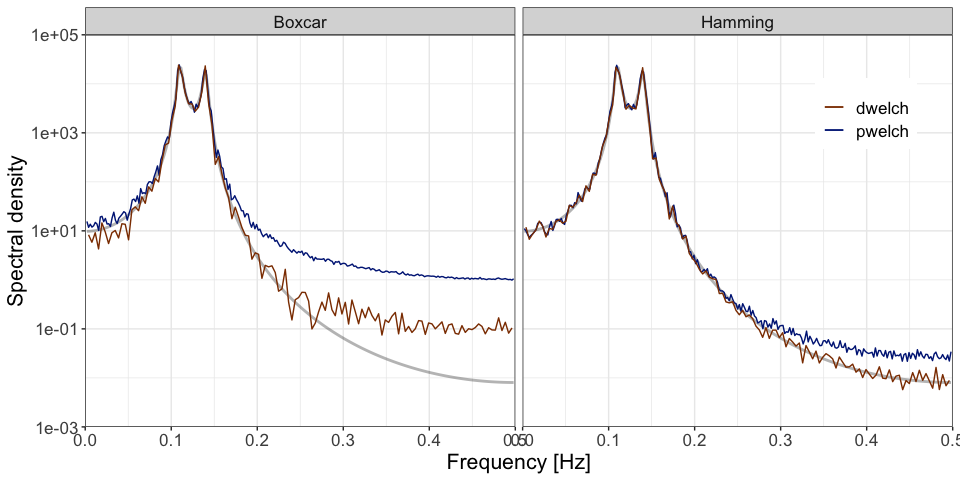
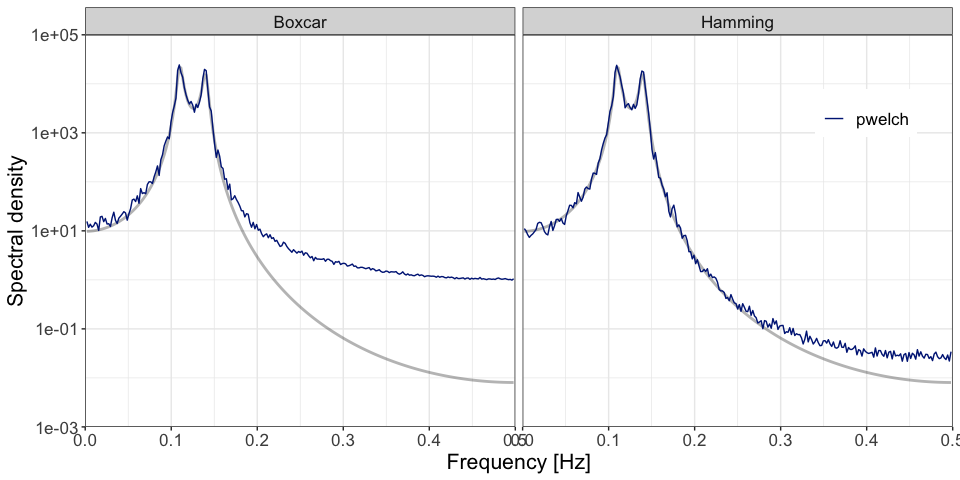
added nnls functionality to dwelch

diff --git a/README.md b/README.md
@@ -7,7 +7,9 @@
 <!-- badges: end -->
 
 <tt>dwelch</tt> provides code to calculate the debiased Welch estimator
-developed in LINK TO PAPER.
+developed in LINK TO PAPER. Code for routine data manipulation and
+plotting is hidden; if you are interested in this consult
+<tt>README.Rmd</tt>.
 
 ## Installation
 
@@ -47,106 +49,66 @@ Define our data taper, <tt>h</tt>, and calculate Welch’s estimate of the
 AR process. We will show results for the boxcar and Hamming tapers
 side-by-side. See package
 [gsignal](https://cran.r-project.org/web/packages/gsignal/index.html)
-for a fairly comprehensive list of other tapers.
+for a fairly comprehensive list of other tapers. Note, gsignal masks the
+function <tt>pwelch</tt> and so if gsignal is loaded into your R session
+you will need to explicitly call <tt>dwelch::pwelch</tt>.
 
 ``` r
 h_hm <- gsignal::hamming(l) # Hamming filter
 h_bc <- rep(1, l) #Boxcar filter
 
-pwelch_bc <- dwelch::pwelch(sampled_ar, m, l, s, delta, h_bc)
-pwelch_hm <- dwelch::pwelch(sampled_ar, m, l, s, delta, h_hm)
-
-# Plot both pwelch estimates together
-
-pwelch_both <- pwelch_bc %>%
-    left_join(pwelch_hm, by = "ff", suffix = c("_Boxcar", "_Hamming")) %>%
-    pivot_longer(
-        -ff,
-        names_to = "filter",
-        names_prefix = "pwelch_",
-        values_to = "pwelch"
-    )
-
-pwelch_both %>%
-    mutate(ar = ar_spectrum(pwelch_both$ff, phis, sd, delta)) %>%
-    ggplot() +
-    geom_line(aes(x = ff, y = ar), linewidth = 1, alpha = 0.3) +
-    geom_line(aes(x = ff, y = pwelch, colour = "pwelch")) +
-    scale_x_continuous(
-        "Frequency [Hz]",
-        limits = c(0, 0.5 / delta),
-        expand = c(0, 0)
-    ) +
-    scale_y_continuous(
-        "Spectral density",
-        limits = c(1e-3, 1e5),
-        expand = c(0, 0),
-        trans = "log10"
-    ) +
-    scale_color_manual(values = c("pwelch" = "#002385")) +
-    facet_wrap(vars(filter)) +
-    theme(
-        legend.position = c(0.9, 0.8),
-        legend.title = element_blank(),
-        text = element_text(size = 16)
-    )
+pwelch_bc <- pwelch(sampled_ar, m, l, s, delta, h_bc)
+pwelch_hm <- pwelch(sampled_ar, m, l, s, delta, h_hm)
 ```
 
-<img src="man/figures/README-unnamed-chunk-5-1.png" width="100%" />
+<img src="man/figures/README-unnamed-chunk-6-1.png" width="100%" />
 
-## Calculated Debiased Welch estimate
+## Calculate debiased Welch estimate
 
 For the debiased Welch estimator we must only make one additional
-specification: the number of debiased bases, <tt>k</tt>. Aside from
-this, the function <tt>dwelch</tt> excutes similarly to <tt>pwelch</tt>,
-above.
+specification: the number of debiased bases, <tt>k</tt>. Aside from the
+selection of <tt>k</tt>, the function <tt>dwelch</tt> excutes similarly
+to <tt>pwelch</tt>, above.
 
 ``` r
 k <- round(get_nfreq(l) / 2, 0)
 
 dwelch_bc <- dwelch(sampled_ar, m, l, s, k, delta, h_bc)
 dwelch_hm <- dwelch(sampled_ar, m, l, s, k, delta, h_hm)
-
-# Plot both dwelch estimates together
-
-dwelch_both <- dwelch_bc %>%
-    left_join(dwelch_hm, by = "ff", suffix = c("_Boxcar", "_Hamming")) %>%
-    pivot_longer(
-        -ff,
-        names_to = "filter",
-        names_prefix = "dwelch_",
-        values_to = "dwelch"
-    )
-
-pwelch_both %>%
-    mutate(ar = ar_spectrum(pwelch_both$ff, phis, sd, delta)) %>%
-    ggplot() +
-    geom_line(aes(x = ff, y = ar), linewidth = 1, alpha = 0.3) +
-    geom_line(aes(x = ff, y = pwelch, colour = "pwelch")) +
-    geom_line(
-        data = dwelch_both,
-        mapping = aes(x = ff, y = dwelch, colour = "dwelch")
-    ) +
-    scale_x_continuous(
-        "Frequency [Hz]",
-        limits = c(0, 0.5 / delta),
-        expand = c(0, 0)
-    ) +
-    scale_y_continuous(
-        "Spectral density",
-        limits = c(1e-3, 1e5),
-        expand = c(0, 0),
-        trans = "log10"
-    ) +
-    scale_color_manual(
-        values = c("pwelch" = "#002385", "dwelch" = "#8d3b00")
-    ) +
-    facet_wrap(vars(filter)) +
-    theme(
-        legend.position = c(0.9, 0.8),
-        legend.title = element_blank(),
-        text = element_text(size = 16)
-    )
 ```
 
-<img src="man/figures/README-unnamed-chunk-6-1.png" width="100%" />
+<img src="man/figures/README-unnamed-chunk-8-1.png" width="100%" />
+
+## Non-negative solutions
+
+The WLS solution does not constain the debiased estimator to
+non-negative solutions, which is required of a spectral estimator. Note,
+this happens when the signal at a frequency is masked by spectral
+leakage. <tt>dwelch</tt> has functionality to constrain solutions to be
+non-negative, this is done by setting <tt>model = “nnls”</tt>. See the
+example below where we have selected an example with a particularly bad
+solution space. Note, non-positive values are not plotted. Note that for
+the Hamming tapered data where the solution is already non-negative, the
+nnls solution is the same.
+
+``` r
+set.seed(23)
+
+sampled_ar <- stats::arima.sim(list(ar = phis), n, n.start = 1000, sd = sd)
+
+pwelch_bc <- dwelch::pwelch(sampled_ar, m, l, s, delta, h_bc)
+pwelch_hm <- dwelch::pwelch(sampled_ar, m, l, s, delta, h_hm)
+
+dwelch_bc <- dwelch(sampled_ar, m, l, s, k, delta, h_bc)
+dwelch_hm <- dwelch(sampled_ar, m, l, s, k, delta, h_hm)
+
+nnls_bc <- dwelch(sampled_ar, m, l, s, k, delta, h_bc, model = "nnls")
+nnls_hm <- dwelch(sampled_ar, m, l, s, k, delta, h_hm, model = "nnls")
+```
+
+    #> Warning in self$trans$transform(x): NaNs produced
+    #> Warning: Transformation introduced infinite values in continuous y-axis
+
+<img src="man/figures/README-unnamed-chunk-10-1.png" width="100%" />
+
+## Convergence to Welch’s estimate
